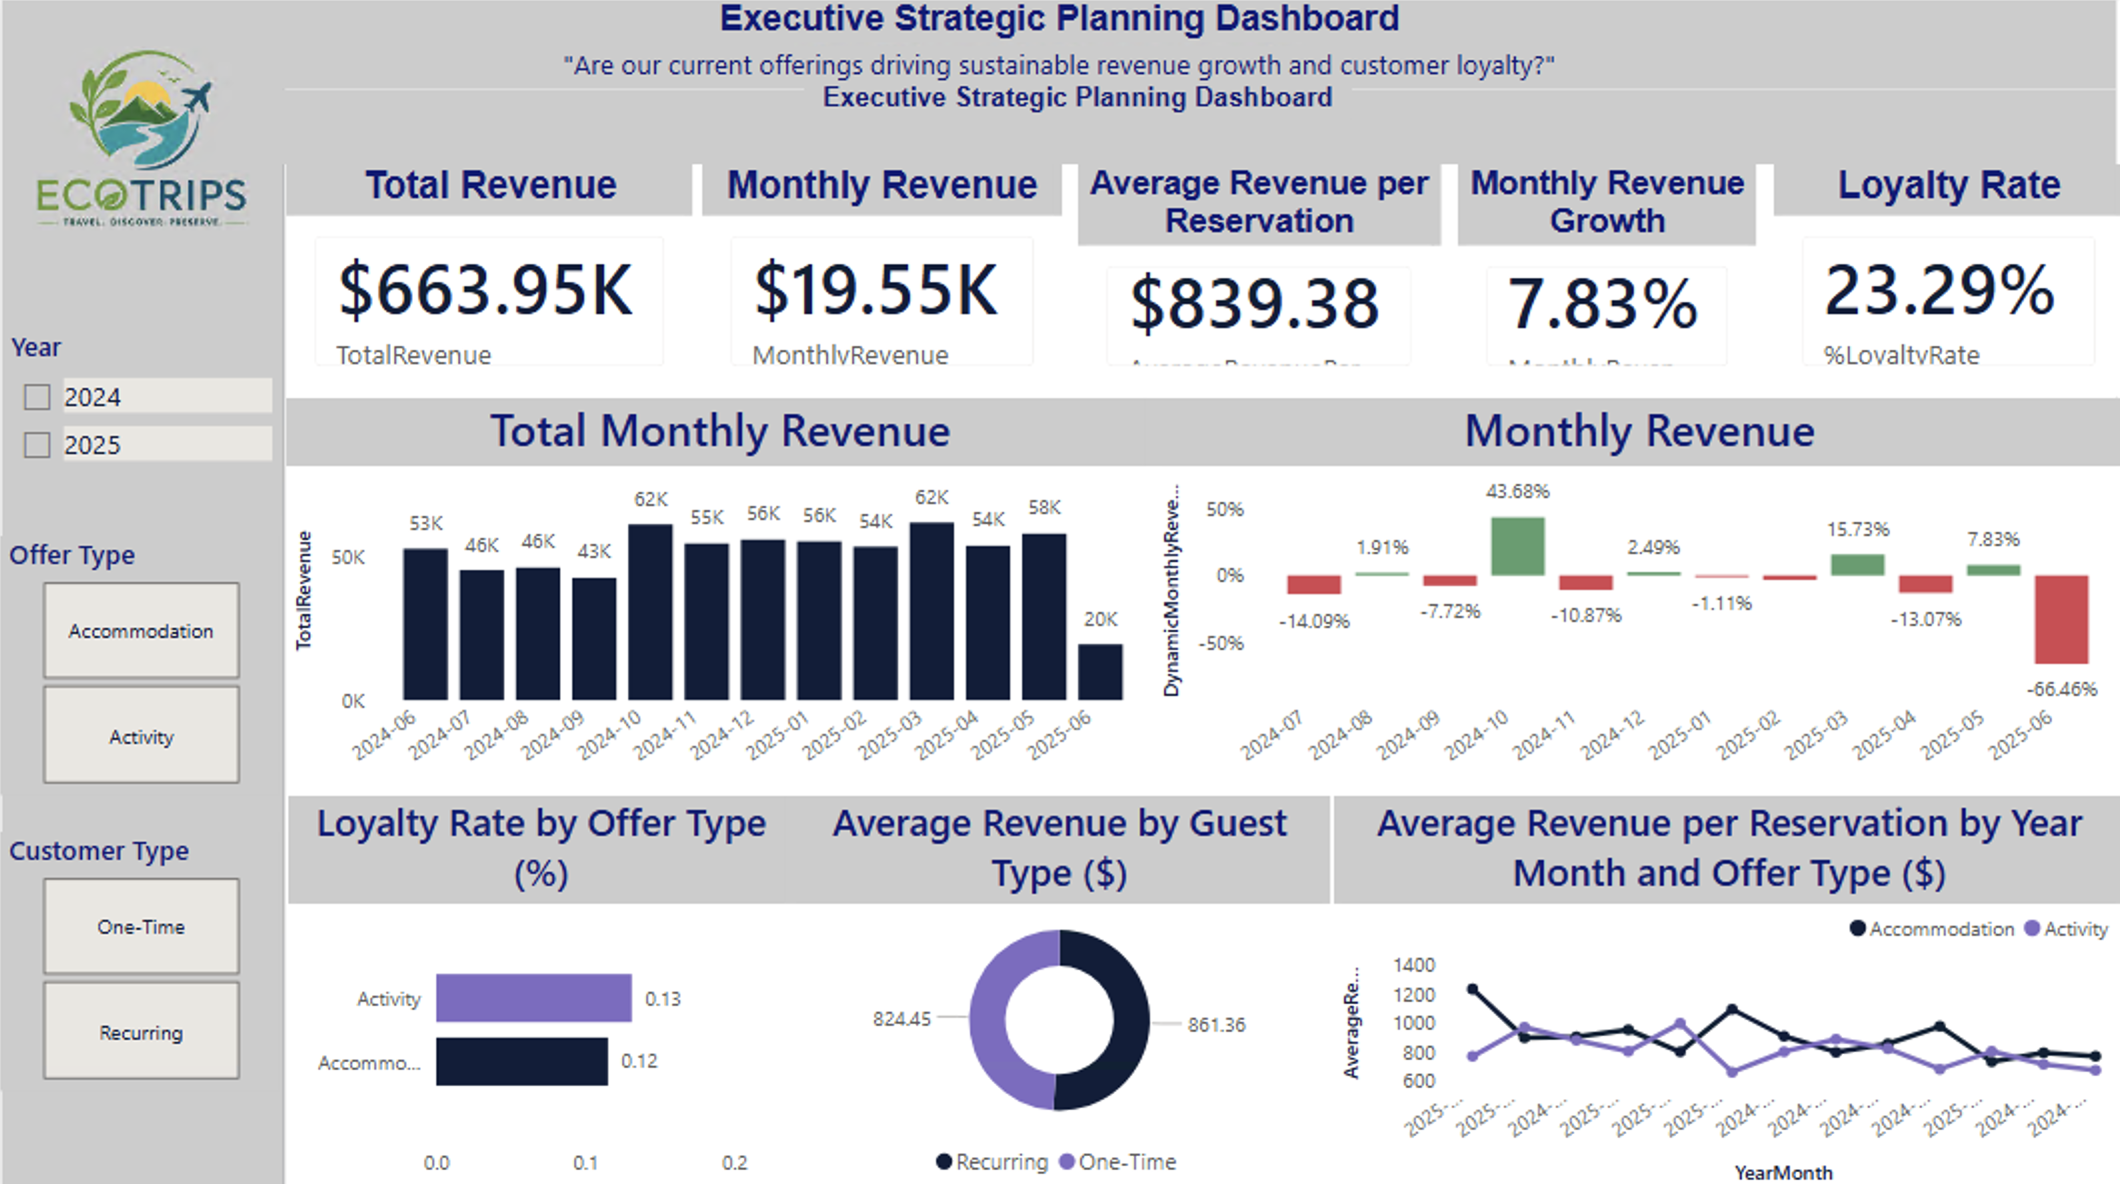
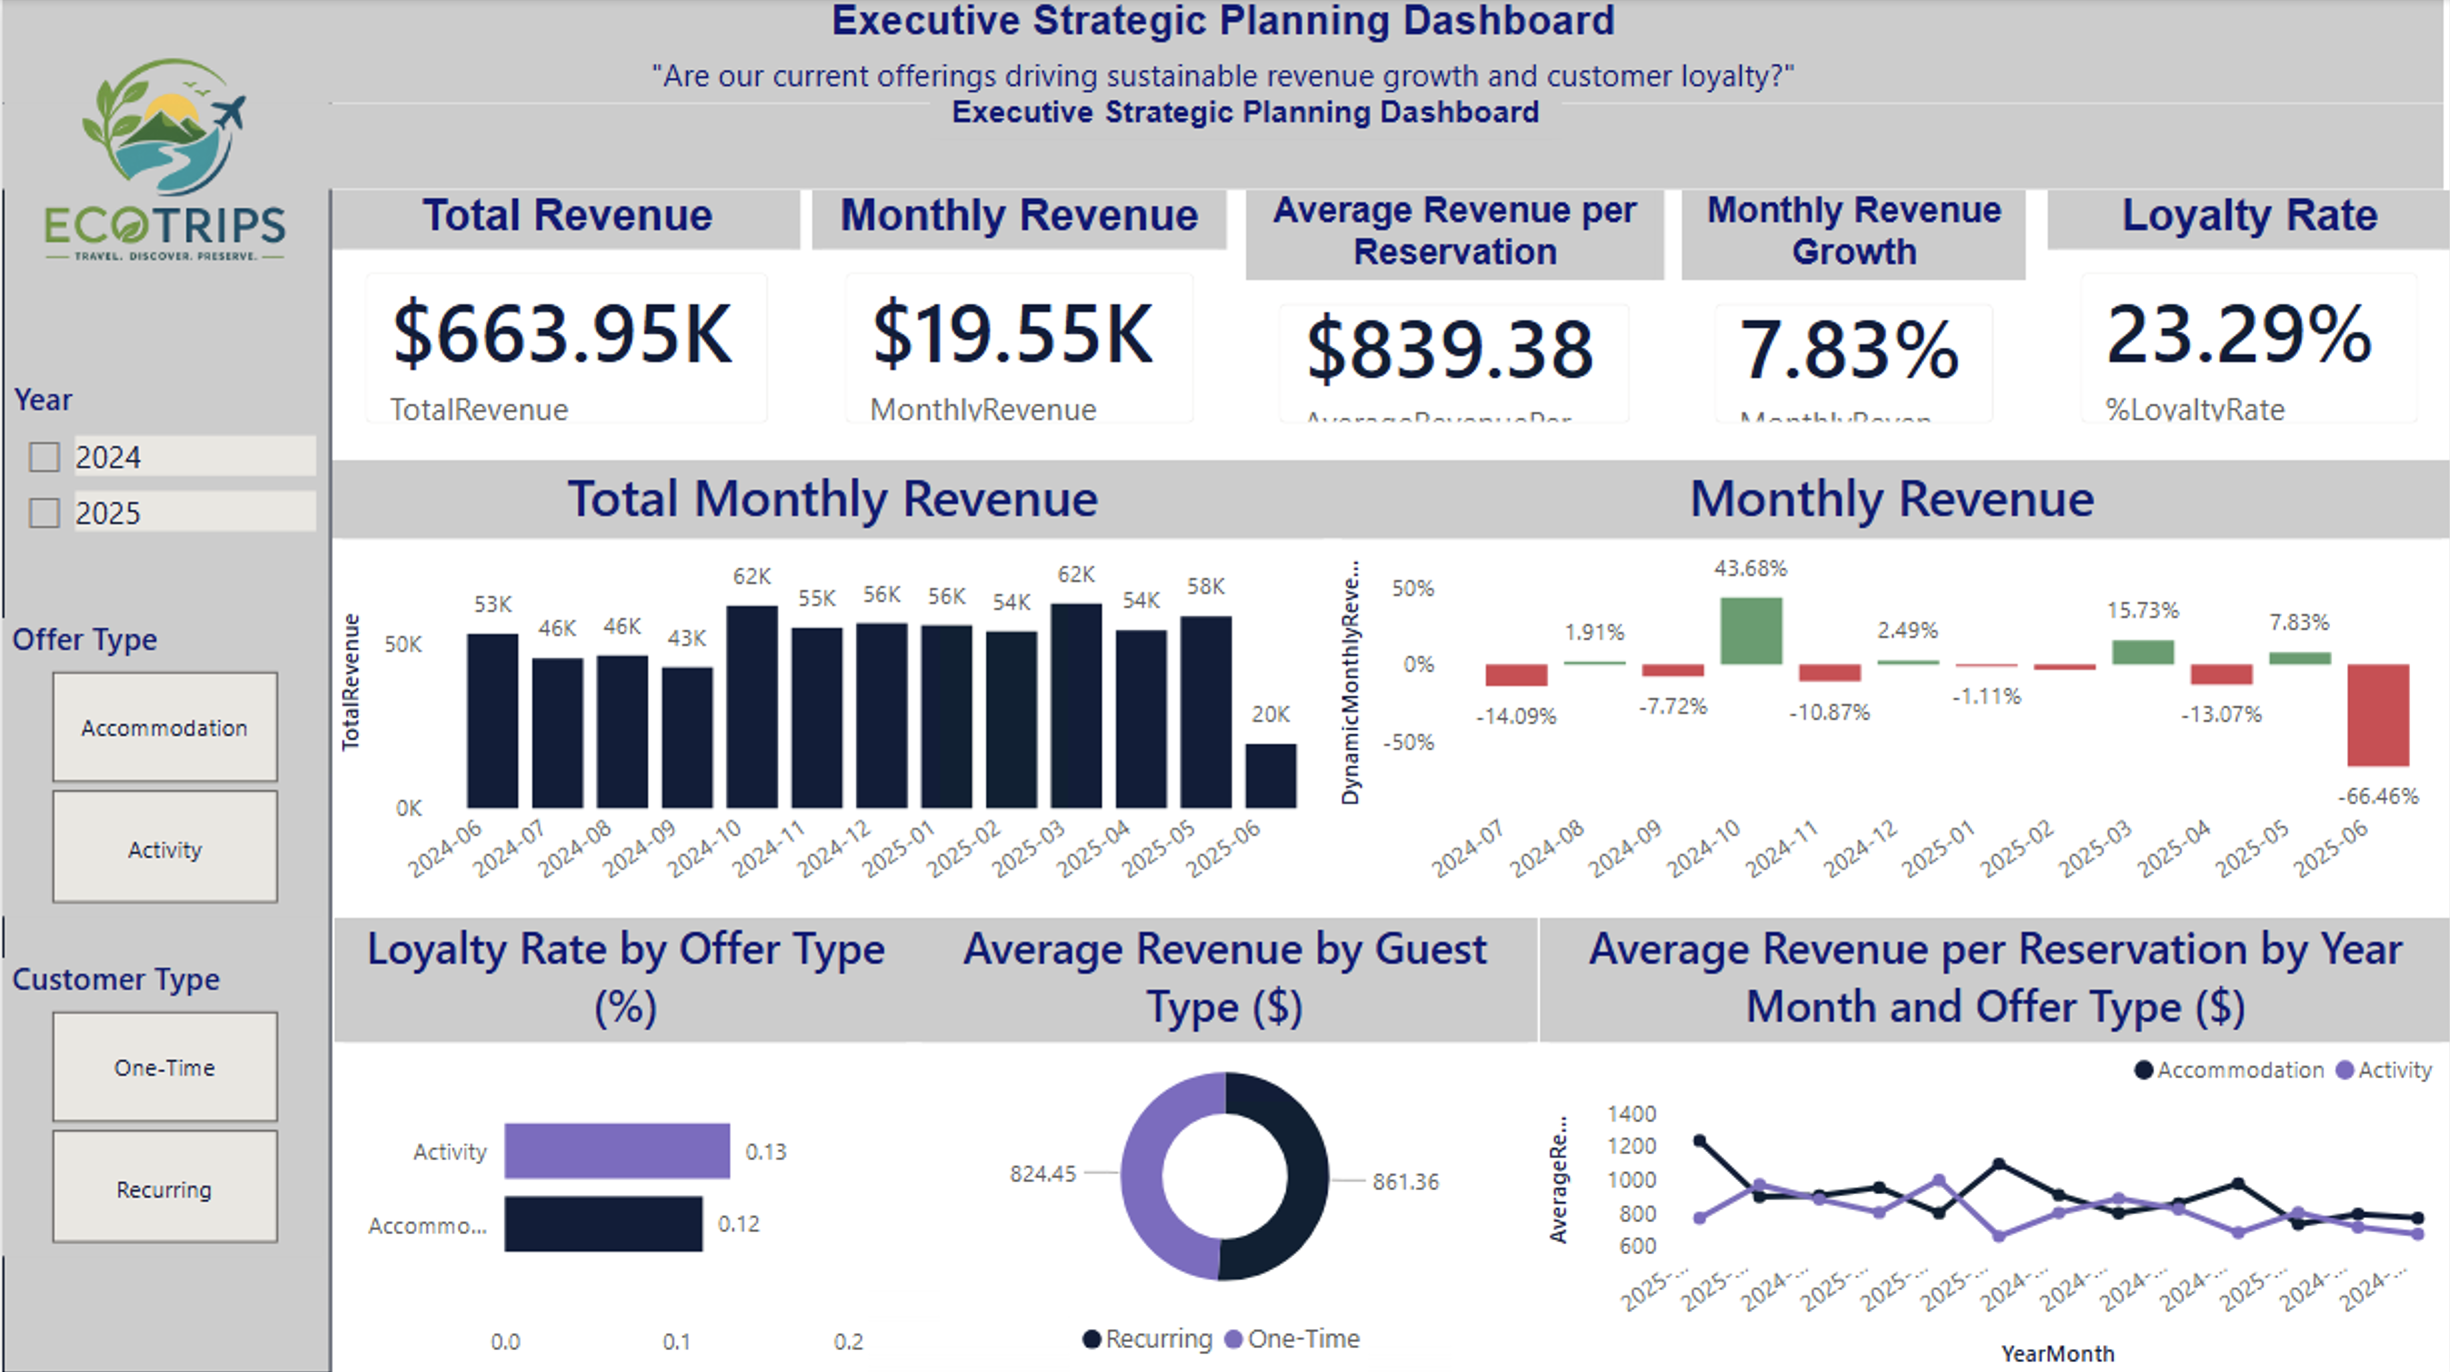
Improve dashboard screenshots
Replace dashboard preview images with higher-quality exports from Power BI.

diff --git a/README.md b/README.md
@@ -1,16 +1,17 @@
-# 🌍 EcoTrips Business Intelligence Project
+# 🌍 🌍 EcoTrips | End-to-End Business Intelligence Project
 
-A Business Intelligence solution developed to transform operational travel data into actionable insights through SQL analysis, interactive dashboards, and business-focused reporting.
-
-![Power BI](https://img.shields.io/badge/Power_BI-F2C811?style=for-the-badge&logo=powerbi&logoColor=black)
-![Google BigQuery](https://img.shields.io/badge/Google_BigQuery-4285F4?style=for-the-badge&logo=googlebigquery&logoColor=white)
-![DAX](https://img.shields.io/badge/DAX-512BD4?style=for-the-badge)
-![Power Query](https://img.shields.io/badge/Power_Query-217346?style=for-the-badge)
-![DBML](https://img.shields.io/badge/DBML-000000?style=for-the-badge)
----
+End-to-end Business Intelligence project transforming operational travel data into strategic insights through data modeling, Google BigQuery SQL, KPI development, and interactive Power BI dashboards.
 
 <p align="center">
-  <img src="05_Dashboard_Images/Executive_Dashboard.png" alt="Executive Dashboard" width="100%">
+  <img src="https://img.shields.io/badge/Power_BI-F2C811?style=for-the-badge&logo=powerbi&logoColor=black">
+  <img src="https://img.shields.io/badge/Google_BigQuery-4285F4?style=for-the-badge&logo=googlebigquery&logoColor=white">
+  <img src="https://img.shields.io/badge/DAX-512BD4?style=for-the-badge">
+  <img src="https://img.shields.io/badge/Power_Query-217346?style=for-the-badge">
+  <img src="https://img.shields.io/badge/DBML-000000?style=for-the-badge">
+</p>---
+
+<p align="center">
+  <img src="05_Dashboard_Images/Executive_Dashboard.png" width="95%">
 </p>
 
 ---